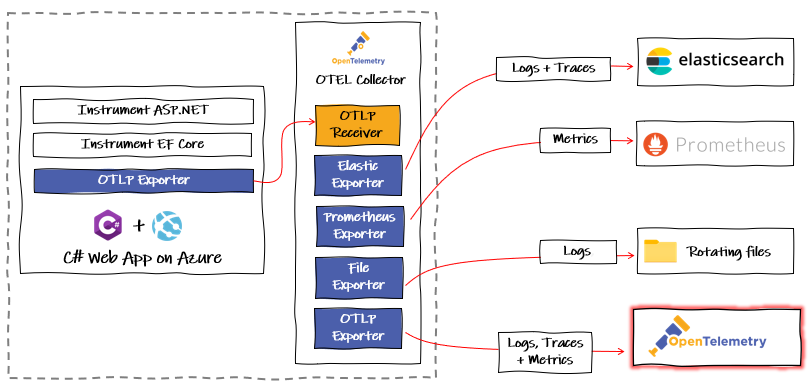
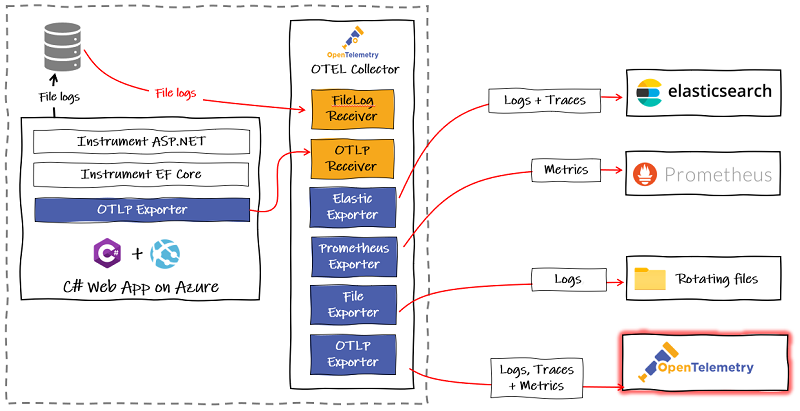
Fix

Changed region(s): [[0.0, 0.0, 1.0, 0.9871]]

diff --git a/_posts/2022-10-16-opentelemtry.md b/_posts/2022-10-16-opentelemtry.md
@@ -10,16 +10,15 @@ tags: [OpenTelemetry, Observability]
 
 - [Part 1: The Modern Observability Problem](/opentelemetry-observability)
 - Part 2: OpenTelemetry, The Missing Ingredient
-- Part 3: OpenTelemetry for the .NET Ecosystem
 
 ----------------------------
 <br/>
 
-In [Part 1](/opentelemetry-observability), we looked at the observability challenges for modern systems - microservices, composable architectures, event-driven, shared components - all that good stuff solving problems well but they're really hard to support. We emphasised the importance of the right data being instrumented and we concluded that there are many good observability solutions, both open-source and commercial. But they all do things their own way, greatly reducing our ability to flex and adapt - letting our old opponent vendor lock-in in the door.
+In [Part 1](/opentelemetry-observability), we looked at the observability challenges for modern systems - microservices, composable architectures, event-driven, shared components - all that good stuff solving problems well. But they're really hard to support. We emphasised the importance of the right data being instrumented and we concluded that there are many good observability solutions, both open-source and commercial. But they all do things their own way, greatly reducing our ability to flex and adapt - letting our old opponent vendor lock-in through the door.
 
 ![image-center](/assets/images/opentelemetry/otel.png){: .align-center}
 
-In this article, we'll look at how OpenTelemetry supports a **move away from vendor-specific tooling** for generating and exporting telemetry data.
+In this article, we'll look at how OpenTelemetry bridges the gap between our code and the observability backend options, supporting a **move away from vendor-specific tooling** for generating and exporting telemetry data.
 
 ## A Quick Refresher
 
@@ -44,15 +43,13 @@ OTel also provides **a complete end-to-end implementation** for generating, emit
 
 ### Core libraries
 
-**The API** is the bare bones interface for tracing, logging, metrics and baggage instrumentation. An API library for a language will just be minimal without the full implementation of an SDK, that is, no actual telemetry data will be sent to a backend. It's been done this way because third party libraries wishing to instrument their code should not need to be concerned with how the consuming application implements its OpenTelemetry i.e. if we use a Jaegar exporter.
+**The API** is the bare bones interface for instrumentation - no actual telemetry data will be sent to a backend. It's been done this way because third party libraries wishing to instrument their code should not need to be concerned with how the consuming application implements its OpenTelemetry.
 
-**The SDK** is the complete language library. It is what we pull into our applications, and with this, we can manually instrument our code, as it implements everything we need to translate the API calls into telemetry data ready for exporting.
-
-Instrumentation libraries will depend directly on the API library. Whereas exporter libraries will implement interfaces on the SDK.
+**The SDK** is the complete language library that provides implementations of the API so we can instrument our code manually. It is what we pull directly into our applications. It doesn't implement exporters, which are separate libraries that take a dependency on the SDK. Alternative instrumentation are available in separate libraries implementing the API.
 
 ![image-center](/assets/images/opentelemetry/sdk2.png){: .align-center}
 
-Any application that we wish to hook up to a observability backend with OTel will take dependencies on both of these indirectly, through dependencies on instrumentation libraries and exporters.
+Typically, any application that we wish to hook up to a observability backend with OTel will take dependencies on both of these indirectly, through dependencies on instrumentation libraries and exporters.
 
 ### Instrumentation Libraries
 
@@ -78,48 +75,48 @@ The OTel project maintains instrumentation and exporter packages for key OSS pro
 
 ### Exporters
 
-Libraries to send the instrumented telemetry data to backends. This can, of course, be through the OpenTelemetry Protocol (OTLP) itself, or  vendor-specific such as Jaegar or Azure Monitor, where it would be translated from the OpenTelemetry data in memory, to the format used by a vendor tool.
+Exporters are libraries to send the instrumented telemetry data to backends. This can be through the OpenTelemetry Protocol (OTLP) itself - and that is the long-term goal**\***, or vendor-specific such as Jaegar or Azure Monitor, where the exporter library would translate from the OpenTelemetry data in memory, to the format used by a vendor tool. The availability of these types of exporters makes it much easier to plan and execute a transition to OTLP.
 
-Vendors are also increasingly supporting direct ingress of native OTLP. See [this list](https://opentelemetry.io/vendors/) for updates. The Jaeger docs now even state:
+**\***Vendors are increasingly offering full support for direct ingress of native OTLP. See [this list](https://opentelemetry.io/vendors/) for updates. The Jaeger docs now even state:
 
 > As of 2022, the Jaeger SDKs are no longer supported, and all users are advised to migrate to OpenTelemetry.
 
 ## Vendor-Neutral Tracing
 
-The biggest problem I've faced when debugging in distributed systems is getting visibility of a complete end-to-end journey of a transaction through all the services involved.
+One of the biggest challenges I've faced when debugging distributed systems is getting visibility the complete end-to-end journey of a transaction through all the services involved.
 
-In [part 1](/opentelemetry-observability) we introduced distributed tracing as a key part of any observability solution to solve just this problem. We acknowledged that there are many open-source and commercial products that do this already, typically by propagating a trace ID between all operations in a transaction to tie everything together.
+In [part 1](/opentelemetry-observability) we introduced distributed tracing as a key part of any observability solution to solve just this problem. We acknowledged that there are many open-source and commercial products that do this already by propagating a trace ID between all operations in a transaction to tie everything together.
 
-More often than not, we end up with an incomplete picture that the business are content with, despite the increased effort for support. Such challenges include:
+But more often than not, we end up with an incomplete picture that the business just accept as a risk, despite the increased effort for support. Some common causes of this include:
 
-- Services on mixed tech stacks require different solutions and resource constraints prevent us from instrumenting all services
+- Services on mixed tech stacks require different solutions and resource constraints prevent us from instrumenting all of them
 - Vendor lock-in, where our chosen backend does not support the tech stack of some of our services
 - Clients and agents to instrument and send telemetry are built in-house and resource constraints prevent us from maintaining them for all service tech stacks
 
 ![image-center](/assets/images/opentelemetry/missing-id.png){: .align-center}
 
-As a single standard for tech stacks and backends, OTel eliminates these challenges. It brings a complete set of tools to 'plug in' to greatly reduce the resourcing required, and because it is an open standard, very little resources are required to switch to (or add) other backends.
+As a single standard for tech stacks and backends, OTel eliminates these challenges. It brings a complete set of tools that really do simply plug in, to greatly reduce the resourcing required, and because it is an open standard, very little resources are required to switch to (or add) other backends.
 
-OTel represents each operation in a trace across a system using with the concept of a **span**. Amongst other things [defined in the OTel specification](https://github.com/open-telemetry/opentelemetry-specification/blob/main/specification/overview.md#spans), each span will hold:
+### How OpenTelemetry Does Tracing
 
-- The unique trace ID for the current 'journey# through the system
+OTel represents each operation in a trace across a system with the concept of a **span**. Amongst other things [defined in the OTel specification](https://github.com/open-telemetry/opentelemetry-specification/blob/main/specification/overview.md#spans), each span will hold:
+
+- A unique trace ID for the whole 'journey' of the current transaction through the system
 - A unique ID for the span itself
 - A unique ID for the parent span so we can reconstruct the journey in an observability backend
 
 ![image-center](/assets/images/opentelemetry/sendspans.png){: .align-center}
 
-This is enough for a backend to rebuild a complete picture of an transaction through a system.
-
 Each span represents a single operation in the overall transaction through a system. Most backends will represent these against time, in a way you might be familiar with from [Gantt charts](https://en.wikipedia.org/wiki/Gantt_chart).
 
 ![image-center](/assets/images/opentelemetry/chart.png){: .align-center}
 
-In the simplified example:
+In this simplified example:
 
 1. **Span A**: request comes into Service A for user details. This is the **root span** and of course, parent to **span B**. Most mainstream web frameworks will be able to auto-instrument this, meaning it will automatically create a trace span for this incoming request.
 2. **Span B**:Service A calls Service B to get a user's details. We might get this from a library to auto-instrument HTTP calls or we could manually add a trace signal 'around' the code that makes the call.
 3. **Span C**: Service B receives the request.
-4. **Span D**: Inside the code to handle the request, a child span represents an SQL query to the database for the user details.
+4. **Span D**: Inside the code to handle the request, a child span represents an SQL query to the database for the user details. 
 5. **Span E**: We manually instrument a signal for adding then user if it is not found.
 6. **Span F**: Service B has returned the user details and Service A returns that data to the caller, which is auto-instrumented by our web framework.
 
@@ -131,9 +128,9 @@ For example, if only `service A` sees a user's ID, we could put in the baggage s
 
 ![image-center](/assets/images/opentelemetry/baggage.png){: .align-center}
 
-## The Vendor-Neutral Proxy
+## The Collector: A Vendor-Neutral Proxy
 
-The star of the show in my opinion, is the **Collector**. While most languages have exporters to send telemetry data directly to back-ends, which is fine during development, it is beneficial to offload data quickly to a collector to handle the resource intensive tasks, such as:
+The star of the show in my opinion, is the **collector**. While most languages have exporters to send telemetry data directly to back-ends, which is fine during development, it is beneficial to offload data quickly to a collector to handle the resource intensive tasks, such as:
 
 - Exporting to multiple places
 - Enhancing with metadata
@@ -142,17 +139,39 @@ The star of the show in my opinion, is the **Collector**. While most languages h
 - Buffering and retries when the back-ends are unresponsive
 - Control flow to back-ends to allow service to continue its work
 
-The collector can receive and export data in multiple formats, to and from observability tools using the OpenTelemetry Procotol (OTLP) and proprietary ones. It does his by acting as a **pipeline** through the following key components:
-
-- **Receivers**: The core receiver is for telemetry using OTLP but there are many more available from the [contrib repository](https://github.com/open-telemetry/opentelemetry-collector-contrib/tree/main/receiver)
-- **Processors**: These can be run on data between receiving and exporting
-- **Exporters:** : Used to send data to observavility back-ends or other destinations. As well as the core OTLP exporter, there are many available from the [contrib repository](https://github.com/open-telemetry/opentelemetry-collector-contrib/tree/main/exporter)
+The collector can receive and export data in multiple formats, to and from observability tools using the OpenTelemetry Procotol (OTLP) and proprietary ones. It does his by acting as a **pipeline** through receivers, processors and exporters.
 
 ![image-center](/assets/images/opentelemetry/pipeline.png){: .align-center}
 
+### Receivers
+
+Receivers are how telemetry signals are ingressed from sources into the collector before being processed and sent on to observability backends.
+
+The core receiver is for telemetry using OTLP but there are many more available from the [contrib repository](https://github.com/open-telemetry/opentelemetry-collector-contrib/tree/main/receiver) to support vendor formats and translate these to OTLP:
+
+- A [file log receiver](https://github.com/open-telemetry/opentelemetry-collector-contrib/tree/main/receiver/filelogreceiver) that will tail and parse logs from files.
+- A [Jaeger Receiver](https://github.com/open-telemetry/opentelemetry-collector-contrib/tree/main/receiver/jaegerreceiver), if you have an existing services exporting traces to Jaegar, these can be redirected to your collector and exported to new backends alongside the existing Jaegar instance.
+- A [Kubernetes cluster receiver](https://github.com/open-telemetry/opentelemetry-collector-contrib/tree/main/receiver/k8sclusterreceiver) that collects cluster-level metrics from the k8s API server.
+
+### Processors
+
+Processors can be run on data between receiving and exporting. Some examples:
+
+- A [redaction processor](https://github.com/open-telemetry/opentelemetry-collector-contrib/tree/main/processor/redactionprocessor) that can be configured to prevent sensitive information leaking into traces.
+- A [k8s attributes processor](https://pkg.go.dev/github.com/open-telemetry/opentelemetry-collector-contrib/processor/k8sattributesprocessor)  that can automatically tag telemetry passing through the collector with k8s metadata.
+- A [batch processor](https://github.com/open-telemetry/opentelemetry-collector/tree/main/processor/batchprocessor) to reduce the number of outgoing connections used to transmit to backends.
+
+### Exporters 
+
+Similar to the libraries used directly by applications, these are used to send data to observability backends or other destinations from the collector.
+
+As well as the core OTLP exporter, there are many available from the [contrib repository](https://github.com/open-telemetry/opentelemetry-collector-contrib/tree/main/exporter)
+
 ### The Sidecar Pattern
 
-Below is a snapshot of a typical use-case. We have a .NET web app exporting logs, metrics and traces using OTLP to a collector. The method of deployment depicted is where a collector is deployed alongside each service on a one-to-one basis, with a shared lifetime with the service. This tends to put ownership of the collector with the development team(s) and is useful if you need to do processing specific to a service.
+Below is a snapshot of a typical use-case. We have a .NET web app exporting logs, metrics and traces using OTLP to a collector. It also shows how we might choose to transition while continuing to output file logs, pulling them into the collector using the [file log receiver](https://github.com/open-telemetry/opentelemetry-collector-contrib/tree/main/receiver/filelogreceiver).
+
+This method of deployment depicted is where a collector is deployed alongside each service on a one-to-one basis, with a shared lifetime with the service. This tends to put ownership of the collector with the development team(s) and is useful if you need to do processing specific to a service.
 
 ![image-center](/assets/images/opentelemetry/collector2.png){: .align-center}
 
@@ -184,8 +203,8 @@ The ideal setup is for each service or collection of services to have dedicated 
 
 ## Summary
 
-Observability solutions, both open-source and commercial, have done a good job in catching up with the demands of supporting complex modern architectures. The biggest problem is the lack of standards, which reduces our ability to flex and adapt and resulting in some level of vendor lock-in.
+Observability solutions, both open-source and commercial, have done a good job in catching up with the demands of supporting complex modern architectures. The big unsolved problem was the lack of standards, which reduced our ability to flex and adapt, resulting in some level of vendor lock-in.
 
 OpenTelemetry is the missing ingredient, which is set to change the landscape significantly. It is very easy to adopt with a real plug-and-play feel to it, and there is good transition support with libraries to translate between proprietary protocols and OpenTelemetry.
 
-In [Part 3](/opentelemetry-dotnet/) we will review the current state of OpenTelemetry in .NET and have a go at using OpenTelemetry with .NET and Azure Monitor.
+At some point I will review the current state of OpenTelemetry in .NET. For now, [fire up my demo repository](https://github.com/benbhall/opentelemetry-demo) and have a go at using OpenTelemetry with .NET and Azure Monitor. 

diff --git a/_posts/2022-10-15-opentelemtry-observability.md b/_posts/2022-10-15-opentelemtry-observability.md
@@ -1,6 +1,6 @@
 ---
 title: The Modern Observability Problem
-excerpt: The core observability problem - Why is the system exhibiting this behaviour?
+excerpt: The observability problem - Why is the system exhibiting this behaviour?
 date: 2022-10-15
 permalink: /opentelemetry-observability/
 categories:
@@ -10,7 +10,6 @@ tags: [OpenTelemetry, Observability]
 
 - Part 1: The Modern Observability Problem
 - [Part 2: OpenTelemetry, The Missing Ingredient](/opentelemetry)
-- Part 3: OpenTelemetry for the .NET Ecosystem
 
 ----------------------------
 <br/>
@@ -21,9 +20,11 @@ Debugging an application in a single process tends to be easy 💪 and most of w
 
 But the complexity of interactions in large, modern microservice architectures produces novel, one-off errors, that cross boundaries in space and time. Factor in components being built on a broad mix of tech stacks, and we have a proper challenge supporting them.
 
-Imagine just a small number of services like those represented in the diagram below. We have a mix of synchronous REST communication and asynchronous events. If we get an error in `service H` because of something that happened in `service B`, this would be non-trivial to investigate - without the 'right information'.
+Imagine just a small number of services like those represented in the diagram below. We have a mix of synchronous REST communication and asynchronous**\*** events. If we get an error in `service H` because of something that happened in `service B`, this would be non-trivial to investigate - without the right information.
 
 ![image-center](/assets/images/opentelemetry/microservices.png){: .align-center}
+
+**\*** Synchronous HTTP calls will request and receive a response at the same time. Of course sometimes it might take a few seconds, but quick enough so that we can easily link it to any side effects it might have. Asynchronous communications, like events, won't necessarily trigger an instant response. It could even be a day before an event added to some queue is processed! Clearly, it won't be as easy to assign blame for some side effect to an event.
 
 ### Visibility is not Observability
 
@@ -47,31 +48,29 @@ And **instrumentation** is what *produces* the telemetry. When we talk about ins
 
 ![image-center](/assets/images/opentelemetry/signals2.png){: .align-center}
 
-In software engineering, we tend to simplify telemetry  three distinct things:
+In software engineering, we often to simplify telemetry to three distinct things:
 
 **Logs**: More specifically, centralised logging – shipping all the text log entries from our components to a single data source to easily draw correlations with searches. Logs typically describe in some detail, what is happening, so are expensive to store a long time. They are not always tied to a specific user/request and thus lack context, but nonetheless, are still heavily relied on to understand system behaviour.
 
 **Metrics**: Typically focusing on reliability, the type of stuff discussed for service level indicators (SLIs) and service level agreements (SLAs). As they are largely numerical data like counters and rates, they use significantly less storage than logging. This means it can be kept for longer, allowing for better analysis of trends over time. Caution though, size can increase with complexity – the cardinality – how much extra data we attach to each metric to make them more useful.
 
-**Traces**: More specifically, distributed tracing. Think of this as **a stack trace across multiple components** (and boundaries) of a distributed or large system. It offers some of the analytical benefits of metrics but with the cardinality of logging. Distributed tracing also relies on **context propagation**, a simple but essential component to move shared information and that used to associate traces, between the services.
+**Traces**: More specifically, distributed tracing. Think of this as **a stack trace across multiple components** (and boundaries) of a distributed or large system. It offers some of the analytical benefits of metrics but with the cardinality of logging. Distributed tracing also relies on **context propagation**, a component to move shared information and identifiers used to associate traces, between the services.
 
-With our tracing instrumented in all our services and properly correlated with logs, then in our fictional system we could see the route our imaginary workload has taken through the system, leading us to the problem service(s), which in our imagined scenario, is some dodgy data in `service F` and the code in `service B` not gracefully handling it, such that the error didn't surface until `service H`.
+With tracing instrumented across all our services, properly correlated with logs, then in our fictional system we could see the route our imaginary transaction has taken, leading us to the problem service(s), which in our imagined scenario, is some dodgy data in `service F` and the code in `service B` not gracefully handling it, such that the error didn't surface until `service H`.
 
 ![image-center](/assets/images/opentelemetry/microservices2.png){: .align-center}
 
-Below is a simplified example, but demonstrates the view you would get in a typical observability tool of traces and logs if an exception was thrown in `service B` after it was called from `service A`. We can see exactly what call from `service A` made the request and drill down into it further to see associated logs:
+A typical observability tool view of traces and logs, if an exception was thrown in `service B` after it was called from `service A` would be like the image below. With it, we can see exactly what call from `service A` made the request and drill down into it further to see associated logs and get a complete picture of the overall transaction.
 
 ![image-center](/assets/images/opentelemetry/ai-spans.png){: .align-center}
 
-We'll come back to traces in more detail for [part 2, on OpenTelemetry](/opentelemetry).
+We'll look at traces in more detail for [part 2, on OpenTelemetry](/opentelemetry).
 
 Ultimately, logs, metrics, and traces are the rehearsed '3 pillars' but there are others, like health checks. Whichever way that we choose to break it down, **we have some raw unstructured data that we need to transform to answer questions about the behaviour of our system**.
 
-Shift away from that monitoring state of mind where you're looking for problems you can predict, and make sure your system emits enough of the right telemetry to allow you to troubleshoot the problems you cannot foresee, because microservice architectures in a production environment will provide plenty of those!
-
-Emitting the right telemetry is what makes a system observable.
-
 ## What is the Right Telemetry?
+
+Shift away from that monitoring state of mind where you're looking for problems you can predict, and make sure your system emits enough of the right telemetry to allow you to troubleshoot the problems you cannot foresee, because microservice architectures in a production environment will provide plenty of those! **Emitting the right telemetry is what makes a system observable**.
 
 What actually stops internal users working or external customers getting what they need done?
 
@@ -87,33 +86,39 @@ This turns observability into a more powerful tool that can be use for what..if 
 
 We have our applications built in a mix of technologies (and more) here on the left, doing stuff we want to know about (this is intentionally getting more complicated as we purposefully shift to composed architectures and smaller microservices).
 
-And we have all these options on the right (and more) that we want to use to collect and analyse what the things on the left are doing.
+And we have all these options on the right (and more) that we might want to use to collect and analyse what the things on the left are doing.
 
-The reality will be a bit of all of it. Some files, some custom database, maybe one team has gone their own way with elastic on prem., another in the cloud.
+The reality will be a bit of all of it. Some files, some custom database, maybe one team has gone their own way with elastic on prem., another in the cloud. All emitting telemetry signals but not necessarily in the same format, which means it becomes really difficult to get a joined up picture of what is going on in side the black box. For example:
 
-All emitting telemetry signals but not necessarily the same, which means it becomes difficult to get a joined up picture of what is going on in side the black box. For example, you're not going to be able to aggregate logs and run queries across the system if they're not using a shared format. I've seen log shipping agents written to reformat logs but that's no long term solution. I've witnessed confusion between teams, each trying to find out what they should be adding to some common context - a gap that can be filled by establishing a standard.
+- You're not going to be able to aggregate logs and run queries across the system if they're not using a shared format. I've seen log shipping agents written to reformat logs but maintaining the agents and clients to do this, across tech stacks, uses a lot of resources.
+- I've witnessed confusion between teams, each trying to find out what they should be adding to some common context in a transaction across services owned by a number of teams. A gap that can be easily be filled by establishing a standard but standards take time and effort to build in-house.
 
 ### Vendor Lock-in
 
-It's okay to roll our own database or file logging, utilising the abstractions provided by our language frameworks. But at scale, we need the powerful features of dedicated self-hosted or SaaS observability solutions. The problem is that they instrument code in their own way, which makes it a non-trivial piece of work to switch to a different solution.
+It's okay to roll our own database or file logging and utilise the abstractions provided by our language frameworks. But at scale, we need the powerful features of dedicated self-hosted or SaaS observability solutions. The problem, is that they instrument code in their own way, which makes it a non-trivial piece of work to switch to a different solution.
 
 We call this 'vendor lock-in' and its effects go both ways:
 
 - Our services all depend on the logging solution they are now plumbed into
-- The logging solution will only support X and Y tech stacks, limiting our freedom to change these
+- The logging solution will only support X and Y tech stacks, limiting our freedom to change these for our services
 
-If, for example, you just have a handful of C# web applications and that's all you ever make, then maybe it is okay to lock into a single tool.
+Sure, if you have a handful of C# web applications and that's all you ever make, then maybe it is okay to lock into specific observability backends:
 
 ![image-center](/assets/images/opentelemetry/tech2.png){: .align-center}
 
-But none of us really know what the future holds and none of us want to create future legacy, so this is always a gamble. It would be a shame (when we try so hard to write good code, designed with 'patterns' that help us easily switch between providers of services) to restrict changes to our observability solutions.
+But we can't predict the future and we don't want to create future legacy.
 
 ## Summary
 
 ![image-center](/assets/images/opentelemetry/observable.png){: .align-right}
 
-To resolve problems in a large microservice system, we must be able to find out *why* they have occured. For this, our system must be observable. To be observable, a system needs to be instrumented such that the code emits telemetry, which is typically logs, traces and metrics. These must be sent to a back-end that supports joining up that telemetry data and answering questions about the system's behaviour.
+To resolve problems in a large microservice system:
 
-There are lots of open-source and commercial back-ends, available as self-hosted or SaaS, many of which are really good at this. The problem, is that they all do things in their own ways - there is no standard. Plumbing our logging, metrics and traces into all our services is a big task, meaning when you have done it once for any vendor, you probably won't be doing it again, greatly reducing your freedom to be flexible and adapt.
+- We must be able to find out *why* they have occurred.
+- For this, our system must be observable.
+- To be observable, a system needs to be instrumented such that the code emits telemetry, which is typically logs, traces and metrics.
+- This telemetry must be sent to a backend that supports joining up that telemetry data and answering questions about the system's behaviour.
+
+There are lots of open-source and commercial backends, available as self-hosted or SaaS, many of which are really good at this. The problem, is that they all do things in their own ways - there is no standard. Plumbing our logging, metrics and traces into all our services is a big task, meaning when you have done it once for any vendor, you probably won't be doing it again any time soon, greatly reducing your freedom to be flexible and adapt.
 
 OpenTelemetry (OTeL) is the evolution of ideas from the OpenTracing and OpenCensus projects, to build a single, vendor-neutral standard. We'll look at this in **[Part 2: OpenTelemetry, The Missing Ingredient](/opentelemetry)**.

diff --git a/_pages/about.md b/_pages/about.md
@@ -6,23 +6,11 @@ classes: wide
 
 ## What I've been up to
 
-### Jan 2022 ⇉⇉⇉ ...   Principal Software Developer at a gov.uk
-
-### 2019 ⇉⇉⇉ ...   Technical Specialist & Author for ContentLab.io
-
-🧙 In my spare time I provided technical expertise and technical writing articles and whitepapers for Microsoft, Docker, Mattermost and other leading industry names (see below for examples).
-
-### 2018 ⇉⇉⇉ 2022 Technical Lead Engineer for C# .NET at a gov.uk
-
-👷 For my day job I was 70% developer and 30% driving knowledge, capability and standards across teams - primarily for the .NET ecosystem, doing things like [this internal .NET versions guidance](https://github.com/UKHO/dotnet-guild/blob/main/dotnetversions.md), and pushing an inclusive language initiative out teams along with authoring  an [inclusive language policy for development teams](https://github.com/UKHO/docs/blob/main/software-engineering-policies/InclusiveLanguage/InclusiveLanguagePolicy.md).
-
-### 2016 ⇉⇉⇉ 2018 Software Engineer at a gov.uk
-
-🤓 switched careers to Software Engineering ミミ★ 🥳
-
-### 2008 ⇉⇉⇉ 2016 School Teacher
-
-👨🏫🦸♂ 11-18 Computer Science ☆ Head of Year ☆ Head of Department.
+- Jan 2022 ⇉⇉⇉ ...   Principal Software Developer at a gov.uk
+- 2019 ⇉⇉⇉ ...   Technical Specialist & Author for ContentLab.io
+- 2018 ⇉⇉⇉ 2022 Technical Lead Engineer for C# .NET at a gov.uk
+- 2016 ⇉⇉⇉ 2018 Software Engineer at a gov.uk
+- 2008 ⇉⇉⇉ 2016 School Teacher 11-18 Computer Science ☆ Head of Year ☆ Head of Department.
 
 ## Things I write about for other people
 
@@ -58,14 +46,6 @@ Mattermost is the leading open source collaboration platform. I was asked to wri
 - **Part 3**: [Build a Teams Power App for Manufacturing 3: Create the Manufacturer UI
 ](https://www.codeproject.com/Articles/5303171/Build-a-Teams-Power-App-for-Manufacturing-3-Create)
 
-### Orpalis
-
-- [Using PDF Layers or Optional Content Groups (OCG) in GdPicture.NET](https://www.gdpicture.com/blog/pdf-layers-ocg/)
-
-### Aspose
-
-- [Document Accessibility with Aspose.PDF for .NET](https://contentlab.io/aspose-pdf-net-accessibility/)
-
 ### Some other topics I've ghostwritten on recently
 
 - A white paper on secure supply chains
@@ -86,8 +66,7 @@ Mattermost is the leading open source collaboration platform. I was asked to wri
 
 ## Talks and Conferences
 
-- [The Modern Observability Problem and OpenTelemetry. November 2022, DevOps North East](https://www.meetup.com/devopsnortheast/events/289067495/). (CONFIRMED)
-- The Modern Observability Problem and OpenTelemetry. October 2022, Homes England.
+- The Modern Observability Problem and OpenTelemetry. October 2022, Homes England Software Community.
 - [Contributor, Government Transformation Summit, September 2022](https://summit.govx.digital/speakers-summit-2022/ben-hall).
 - Lightning talk: Introducing Azure App Configuration. January 2020, UK Hydrographic Office
 

diff --git a/_posts/2022-06-17-gitops.md b/_posts/2022-06-17-gitops.md
@@ -1,0 +1,18 @@
+---
+title: GitOps with Terraform, GitHub and Azure
+excerpt: A 3-part series published on CodeProject that demonstrates how to construct a complete end-to-end GitOps workflow using Terraform plans, GitHub, GitHub Actions, and Azure.
+date: 2022-06-17
+permalink: /gitops/
+categories:
+  - GitOps
+tags: [gitops,azure,github,github actions]
+comments: true
+---
+
+Microsoft commissioned me to write a three-part series to demonstrate how to construct a complete end-to-end GitOps workflow using Terraform plans, GitHub, GitHub Actions, and Azure.
+
+All three were published on Code Project and can be read through the links below:
+
+- [Introduction to GitOps](https://www.codeproject.com/Articles/5334970/Introduction-to-GitOps). This article takes a look at GitOps — its origins, what it actually is, and how it relates to the term IaC and the pipeline concepts of CI and CD.
+- [GitOps with Terraform and GitHub](https://www.codeproject.com/Articles/5334971/GitOps-with-Terraform-and-GitHub). In this article, you will see a hands-on tutorial that shows how to take a simple Terraform plan that deploys some simple Azure infrastructure (such as VMs), and commits the code to a GitHub repository. Then, you will learn how to make changes to the code in a fork or branch, commit the changes, and do code review on the changes using a pull request.
+- [GitOps Provisioning with GitHub Actions](https://www.codeproject.com/Articles/5334972/GitOps-with-Azure-Terraform-and-GitHub-Part-3-GitO). This article gives you hands-on experience in constructing a CI/CD pipeline that provisions changes that have been merged into a Terraform plan via a pull request. You will also see how to use automated checks to support the code review process in ‘gating’ deployments, and review the end-to-end process for making changes and seeing those changes in the live Azure resources.
